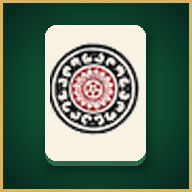
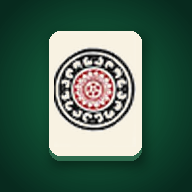
ツモ/ロンをポップアップ化、手牌の選択中タップ打牌をデフォルトに、手牌位置を固定、アイコンの縁取りを削除
Claude-Session: https://claude.ai/code/session_01Kv2HaPgx4L1UeWFjPxrdCA

Changed region(s): [[0.2188, 0.125, 0.7812, 0.875], [0.0, 0.0, 1.0, 1.0]]

diff --git a/index.html b/index.html
@@ -10,7 +10,7 @@
 <meta name="apple-mobile-web-app-status-bar-style" content="black-translucent">
 <link rel="manifest" href="manifest.webmanifest">
 <link rel="icon" href="icons/icon-192.png">
-<link rel="apple-touch-icon" href="icons/icon-192.png">
+<link rel="apple-touch-icon" sizes="180x180" href="icons/apple-touch-icon.png">
 <link rel="preconnect" href="https://fonts.googleapis.com">
 <link rel="preconnect" href="https://fonts.gstatic.com" crossorigin>
 <link href="https://fonts.googleapis.com/css2?family=Noto+Serif+JP:wght@700;900&family=Zen+Kaku+Gothic+New:wght@500;700;900&display=swap" rel="stylesheet">
@@ -297,7 +297,15 @@ body{touch-action:manipulation;overscroll-behavior:none;-webkit-user-select:none
 #menu details summary{font-size:15px}
 .pctrl3{display:grid;grid-template-columns:116px 1fr 116px;gap:10px;margin-top:14px;height:262px}
 .pcol{display:flex;flex-direction:column;gap:8px}
-.pcol .pbtn{flex:1;height:auto;font-size:22px;letter-spacing:0;white-space:nowrap;padding:0}
+.pcol .pbtn{flex:1;height:auto;font-size:24px;letter-spacing:0;white-space:nowrap;padding:0}
+.winpop{position:absolute;left:50%;top:50%;transform:translate(-50%,-50%);z-index:9;display:flex;align-items:center;gap:18px;
+  background:rgba(20,4,6,.92);border:2px solid #ff8a8a;border-radius:20px;padding:16px 22px;box-shadow:0 0 40px rgba(255,60,60,.45),0 20px 50px rgba(0,0,0,.6);animation:popin .22s ease-out}
+@keyframes popin{from{transform:translate(-50%,-50%) scale(.7);opacity:0}}
+.winpop .wt .tile{--u:74px}
+.wbtn{position:relative;appearance:none;border:0;cursor:pointer;width:190px;height:120px;border-radius:18px;font:900 54px/1 'Noto Serif JP',serif;letter-spacing:.12em;color:#fff;
+  background:linear-gradient(180deg,#ffb3b3,#e2434c 55%,#a81d26);box-shadow:0 5px 0 #5e0d12,0 0 26px rgba(255,80,80,.7);animation:pulse .7s infinite alternate}
+.wskip{position:relative;appearance:none;cursor:pointer;height:120px;width:100px;border-radius:16px;font:900 22px/1.2 'Zen Kaku Gothic New',sans-serif;
+  color:var(--ink);background:rgba(255,255,255,.08);border:1px solid rgba(246,226,160,.45)}
 #car{position:relative;overflow:hidden;border-radius:16px;touch-action:none;cursor:grab;
   background:radial-gradient(ellipse at center,rgba(0,0,0,.12),rgba(0,0,0,.38));border:1px solid rgba(216,180,90,.28)}
 #car:not(.on){opacity:.45;cursor:default}
@@ -451,7 +459,7 @@ code{font-family:ui-monospace,monospace;font-size:11px;color:var(--gold2)}
         <select id="setTimeout"><option value="pot" selected>チップ1枚を供託して続行</option><option value="auto">自動で打牌</option></select></label>
       <label class="set">打牌の操作
         <select id="setDiscard"><option value="swipe" selected>上スワイプ</option><option value="tap">タップ</option></select></label>
-      <label class="set">手牌の選択中タップで打牌 <input type="checkbox" id="setHandTap"></label>
+      <label class="set">手牌の選択中タップで打牌 <input type="checkbox" id="setHandTap" checked></label>
       <label class="set">触覚フィードバック <span><button class="btn ghost sm" data-act="hapticTest" style="margin-right:8px;position:relative">テスト<label for="hapsw" class="hap" aria-hidden="true"></label></button><input type="checkbox" id="setHaptic" checked></span></label>
       <label class="set">おすすめ牌の表示（勧） <input type="checkbox" id="setAssist" checked></label>
       <div class="opts" style="margin-top:8px">
@@ -507,7 +515,7 @@ const SKILLS = {
 let uid = 0;
 const S = {
   chips: { p: START_CHIPS, c: START_CHIPS }, handNo: 0, gauge: 0, bet: 1, pendingSkill: null, skill: null,
-  maxHands: 4, settings: { level: 'mid', assist: true, time: 8, timeout: 'pot', haptic: true, discard: 'swipe', handTap: false }, log: [], token: 0, ended: true, phase: 'idle',
+  maxHands: 4, settings: { level: 'mid', assist: true, time: 8, timeout: 'pot', haptic: true, discard: 'swipe', handTap: true }, log: [], token: 0, ended: true, phase: 'idle',
   wall: [], rinshan: [], doraInd: [], uraInd: [], doraKinds: [],
   hands: { p: [], c: [] }, melds: { p: [], c: [] }, river: { p: [], c: [] },
   draws: { p: 0, c: 0 }, riichi: { p: false, c: false }, drawn: { p: null, c: null },
@@ -712,13 +720,13 @@ function drawOpts(who) {
   return o;
 }
 function playerOnDraw() {
-  S.phase = 'discard'; S.opts = drawOpts('p'); render();
+  S.phase = 'discard'; S.opts = drawOpts('p'); S.winDismissed = false; render();
   if (S.riichi.p) {
     if (S.opts.tsumo) startTimer(() => win('p', 'tsumo'));
     else later(() => { if (S.phase === 'discard' && S.turn === 'p') discardTile('p', S.drawn.p); }, 420);
     return;
   }
-  startTimer(() => { if (S.opts.tsumo) win('p', 'tsumo'); else discardTile('p', S.drawn.p); });
+  startTimer(() => { if (S.opts.tsumo && !S.winDismissed) win('p', 'tsumo'); else discardTile('p', S.drawn.p); });
 }
 function onHandClick(id) {
   if (S.turn !== 'p' || S.ended) return;
@@ -743,8 +751,8 @@ function playerReact(t) {
   const o = { ron };
   if (!S.riichi.p) { o.pon = c[t.k] >= 2; o.kan = c[t.k] >= 3 && S.rinshan.length > 0; }
   if (!o.ron && !o.pon && !o.kan) return later(() => beginTurn('p'), 120);
-  S.phase = 'react'; S.reactTile = t; S.opts = o; render();
-  startTimer(() => { if (o.ron) win('p', 'ron', t); else reactSkip(); });
+  S.phase = 'react'; S.reactTile = t; S.opts = o; S.winDismissed = false; render();
+  startTimer(() => { if (o.ron && !S.winDismissed) win('p', 'ron', t); else reactSkip(); });
 }
 function reactSkip() { if (S.phase !== 'react') return; clearTimer(); S.phase = 'wait'; beginTurn('p'); }
 function doRedeal() {
@@ -1018,7 +1026,7 @@ function render() {
     if (S.portrait && canSelect() && t.id === S.sel) cls += ' sel';
     return tileHTML(t, { hand: true, cls });
   };
-  const myTiles = mh.rest.map(mine).join('') + (mh.dt ? '<div class="gap"></div>' + mine(mh.dt) : '');
+  const myTiles = mh.rest.map(mine).join('') + '<div class="gap"></div>' + (mh.dt ? mine(mh.dt) : '<div class="tile ghost"></div>');
 
   /* actions */
   let acts = '', msg = '';
@@ -1073,6 +1081,12 @@ function render() {
       B('pon', 'ポン', react && o.pon) +
       B('pkan', 'カン', (disc && !S.riichi.p && (o.kans || []).length > 0) || (react && o.kan)) +
       B('pskip', (react && o.ron) || (disc && S.riichi.p) ? '見逃し' : 'スキップ', react || (disc && S.riichi.p && o.tsumo), 'ghost');
+    const winKind = !S.winDismissed ? ((disc && o.tsumo) ? 'tsumo' : (react && o.ron) ? 'ron' : '') : '';
+    const winTile = winKind === 'tsumo' ? S.hands.p.find(t => t.id === S.drawn.p) : winKind === 'ron' ? S.reactTile : null;
+    const winpop = winKind ? `<div class="winpop" role="dialog" aria-label="和了できます">
+        <div class="wt">${winTile ? tileHTML(winTile) : ''}</div>
+        <button class="wbtn" data-act="${winKind}">${winKind === 'tsumo' ? 'ツモ' : 'ロン'}${H}</button>
+        <button class="wskip" data-act="winDismiss">見逃し${H}</button></div>` : '';
     const extra = disc && S.redealAvail && !S.river.p.length ? '<button class="btn ghost sm" data-act="redeal">配牌やり直し</button>' : '';
     const choose = S.phase === 'choose' && myTurn
       ? `<div class="choosepop"><span>選択ツモ（残り${S.chooseLeft}）</span><div class="choose">${[0, 1].map(i => `<div data-choose="${i}">${tileHTML(S.wall[i])}</div>`).join('')}</div></div>` : '';
@@ -1089,19 +1103,20 @@ function render() {
       <div class="pbox pstat"><div class="center">${centerHTML}</div></div>
       <div class="pbox priver"><div class="river">${riverHTML('p')}</div></div>
       ${choose}
+      ${winpop}
     </div>
     <div class="pbox pmrow"><div class="melds">${meldsHTML('p', true)}</div></div>
     <div class="handrow mrow" style="--tw:${u}px"><div class="hand mine">${myTiles}${canSelect() ? H : ''}</div></div>
     <div class="timer"><i id="timerBar"></i></div>
     <div class="pctrl3" id="pctrl">
-      <div class="pcol">${B('tsumo', 'ツモ', disc && o.tsumo, 'win')}${B('ron', 'ロン', react && o.ron, 'win')}${B(rsel ? 'riichiCancel' : 'riichi', rsel ? '取消' : 'リーチ', (disc && !S.riichi.p && o.riichi) || rsel, 'ri')}</div>
+      <div class="pcol">${B(rsel ? 'riichiCancel' : 'riichi', rsel ? '取消' : 'リーチ', (disc && !S.riichi.p && o.riichi) || rsel, 'ri')}${B('pon', 'ポン', react && o.pon)}</div>
       <div id="car" class="${canSelect() ? 'on' : ''}${rsel ? ' rsel' : ''} ${S.settings.discard === 'swipe' ? 'swipe' : 'tapmode'}">${canSelect() ? H : ''}<div class="carup" aria-hidden="true"><svg viewBox="0 0 24 24" width="26" height="26"><path d="M6 14 L12 8 L18 14" fill="none" stroke="currentColor" stroke-width="3" stroke-linecap="round" stroke-linejoin="round"/></svg></div>
         <div id="cartrack">${carList().map((t, i) => `<div class="ct" data-ci="${i}" style="left:${i * CAR_PITCH}px">${tileHTML(t)}</div>`).join('')}</div>
         <button class="carnav l" data-act="selL" aria-label="左の牌">${chev('M15 5 L8 12 L15 19')}${H}</button>
         <button class="carnav r" data-act="selR" aria-label="右の牌">${chev('M9 5 L16 12 L9 19')}${H}</button>
         ${extra ? `<div class="carx">${extra}</div>` : ''}
       </div>
-      <div class="pcol">${B('pon', 'ポン', react && o.pon)}${B('pkan', 'カン', (disc && !S.riichi.p && (o.kans || []).length > 0) || (react && o.kan))}${B('pskip', (react && o.ron) || (disc && S.riichi.p) ? '見逃し' : 'スキップ', react || (disc && S.riichi.p && o.tsumo), 'ghost')}</div>
+      <div class="pcol">${B('pkan', 'カン', (disc && !S.riichi.p && (o.kans || []).length > 0) || (react && o.kan))}${B('pskip', disc && S.riichi.p ? '見逃し' : 'スキップ', react || (disc && S.riichi.p && o.tsumo), 'ghost')}</div>
     </div>
     <div class="pbar">
       <div class="pbar1"><span class="nm">あなた</span>${gaugeHTML()}${S.riichi.p ? '<span class="badge ri">リーチ</span>' : ''}<span class="sp"></span><button class="btn ghost sm" data-act="pause">一時停止</button><button class="btn ghost sm" data-act="menu">メニュー</button></div>
@@ -1553,6 +1568,7 @@ function act(a, ds) {
       if (S.phase === 'react' && S.opts.kan) claim('p', S.reactTile, 'minkan');
       else if (S.phase === 'discard' && (S.opts.kans || []).length) { const st = S.hands.p.find(t => t.id === S.sel); selfKan('p', st && S.opts.kans.includes(st.k) ? st.k : S.opts.kans[0]); }
       break;
+    case 'winDismiss': S.winDismissed = true; render(); break;
     case 'pskip':
       if (S.phase === 'react') reactSkip(); else if (S.phase === 'discard' && S.riichi.p) discardTile('p', S.drawn.p);
       break;

diff --git a/sw.js b/sw.js
@@ -1,6 +1,6 @@
 // 韓麻 HEADS-UP service worker: オフラインでも遊べるようにゲーム本体をキャッシュする
-const CACHE = 'hanma-v20';
-const ASSETS = ["./", "index.html", "manifest.webmanifest", "icons/icon-192.png", "icons/icon-512.png", "tiles/chun.png", "tiles/east.png", "tiles/haku.png", "tiles/hatsu.png", "tiles/m1.png", "tiles/m2.png", "tiles/m3.png", "tiles/m4.png", "tiles/m5.png", "tiles/m5r.png", "tiles/m6.png", "tiles/m7.png", "tiles/m8.png", "tiles/m9.png", "tiles/north.png", "tiles/p1.png", "tiles/p2.png", "tiles/p3.png", "tiles/p4.png", "tiles/p5r.png", "tiles/p6.png", "tiles/p7.png", "tiles/p8.png", "tiles/p9.png", "tiles/s1.png", "tiles/s2.png", "tiles/s3.png", "tiles/s4.png", "tiles/s5r.png", "tiles/s6.png", "tiles/s7.png", "tiles/s8.png", "tiles/s9.png", "tiles/south.png", "tiles/west.png"];
+const CACHE = 'hanma-v21';
+const ASSETS = ["./", "index.html", "manifest.webmanifest", "icons/icon-192.png", "icons/icon-512.png", "icons/apple-touch-icon.png", "tiles/chun.png", "tiles/east.png", "tiles/haku.png", "tiles/hatsu.png", "tiles/m1.png", "tiles/m2.png", "tiles/m3.png", "tiles/m4.png", "tiles/m5.png", "tiles/m5r.png", "tiles/m6.png", "tiles/m7.png", "tiles/m8.png", "tiles/m9.png", "tiles/north.png", "tiles/p1.png", "tiles/p2.png", "tiles/p3.png", "tiles/p4.png", "tiles/p5r.png", "tiles/p6.png", "tiles/p7.png", "tiles/p8.png", "tiles/p9.png", "tiles/s1.png", "tiles/s2.png", "tiles/s3.png", "tiles/s4.png", "tiles/s5r.png", "tiles/s6.png", "tiles/s7.png", "tiles/s8.png", "tiles/s9.png", "tiles/south.png", "tiles/west.png"];
 self.addEventListener('install', e => {
   e.waitUntil(caches.open(CACHE).then(c => c.addAll(ASSETS)).then(() => self.skipWaiting()));
 });
